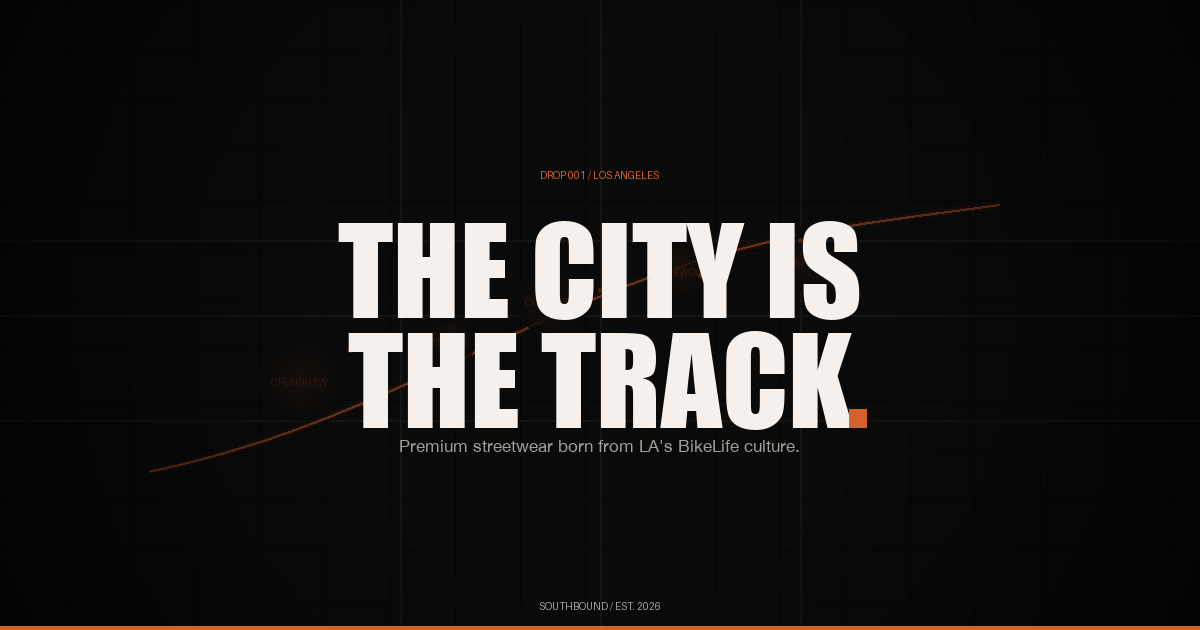
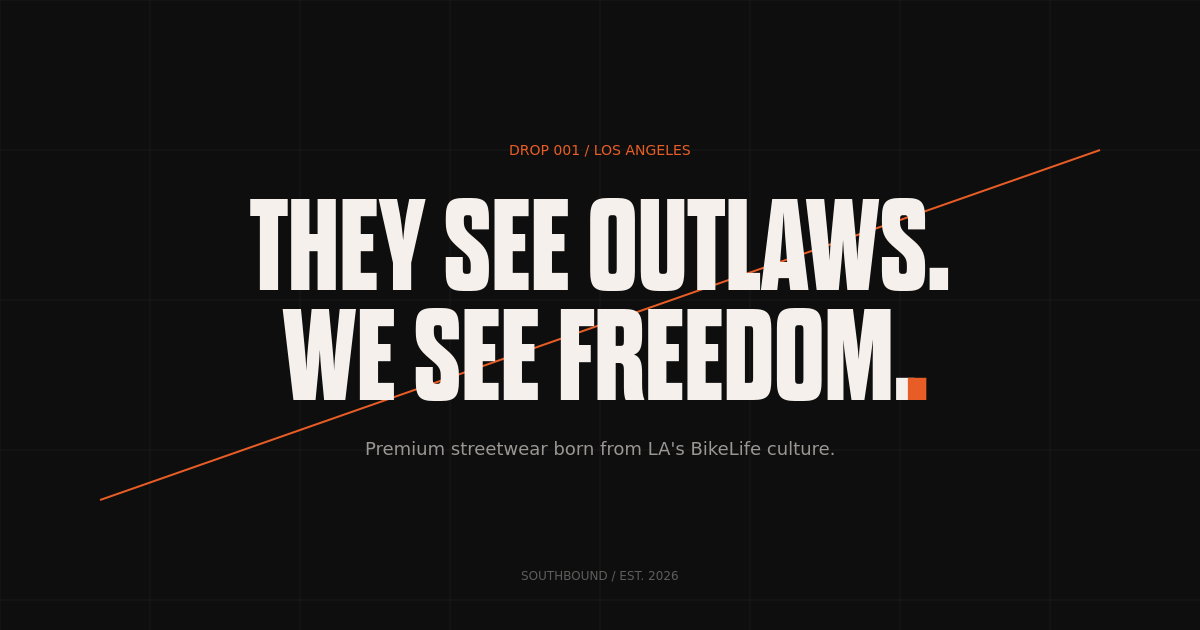
Update OG image and meta titles with new headline
Replace "The City Is The Track" OG image with "They See Outlaws. We See Freedom."
and update og:title and twitter:title meta tags to match.

https://claude.ai/code/session_01P8yUUjEGttZH948RsH2hXr

diff --git a/index.html b/index.html
@@ -3,16 +3,16 @@
 <head>
 <meta charset="UTF-8">
 <meta name="viewport" content="width=device-width, initial-scale=1.0">
-<title>SOUTHBOUND — No Permission Needed.</title>
+<title>SOUTHBOUND — They See Outlaws. We See Freedom.</title>
 <meta name="description" content="Premium streetwear built for riders who take over the streets. Drop 001. Los Angeles.">
-<meta property="og:title" content="SOUTHBOUND — No Permission Needed.">
+<meta property="og:title" content="SOUTHBOUND — They See Outlaws. We See Freedom.">
 <meta property="og:description" content="Premium streetwear built for the rider the motorcycle industry forgot. Drop 001 now live.">
 <meta property="og:image" content="/og-image.png">
 <meta property="og:image:width" content="1200">
 <meta property="og:image:height" content="630">
 <meta property="og:type" content="website">
 <meta name="twitter:card" content="summary_large_image">
-<meta name="twitter:title" content="SOUTHBOUND — No Permission Needed.">
+<meta name="twitter:title" content="SOUTHBOUND — They See Outlaws. We See Freedom.">
 <meta name="twitter:description" content="Premium streetwear built for the rider the motorcycle industry forgot. Drop 001 now live.">
 <meta name="twitter:image" content="/og-image.png">
 
